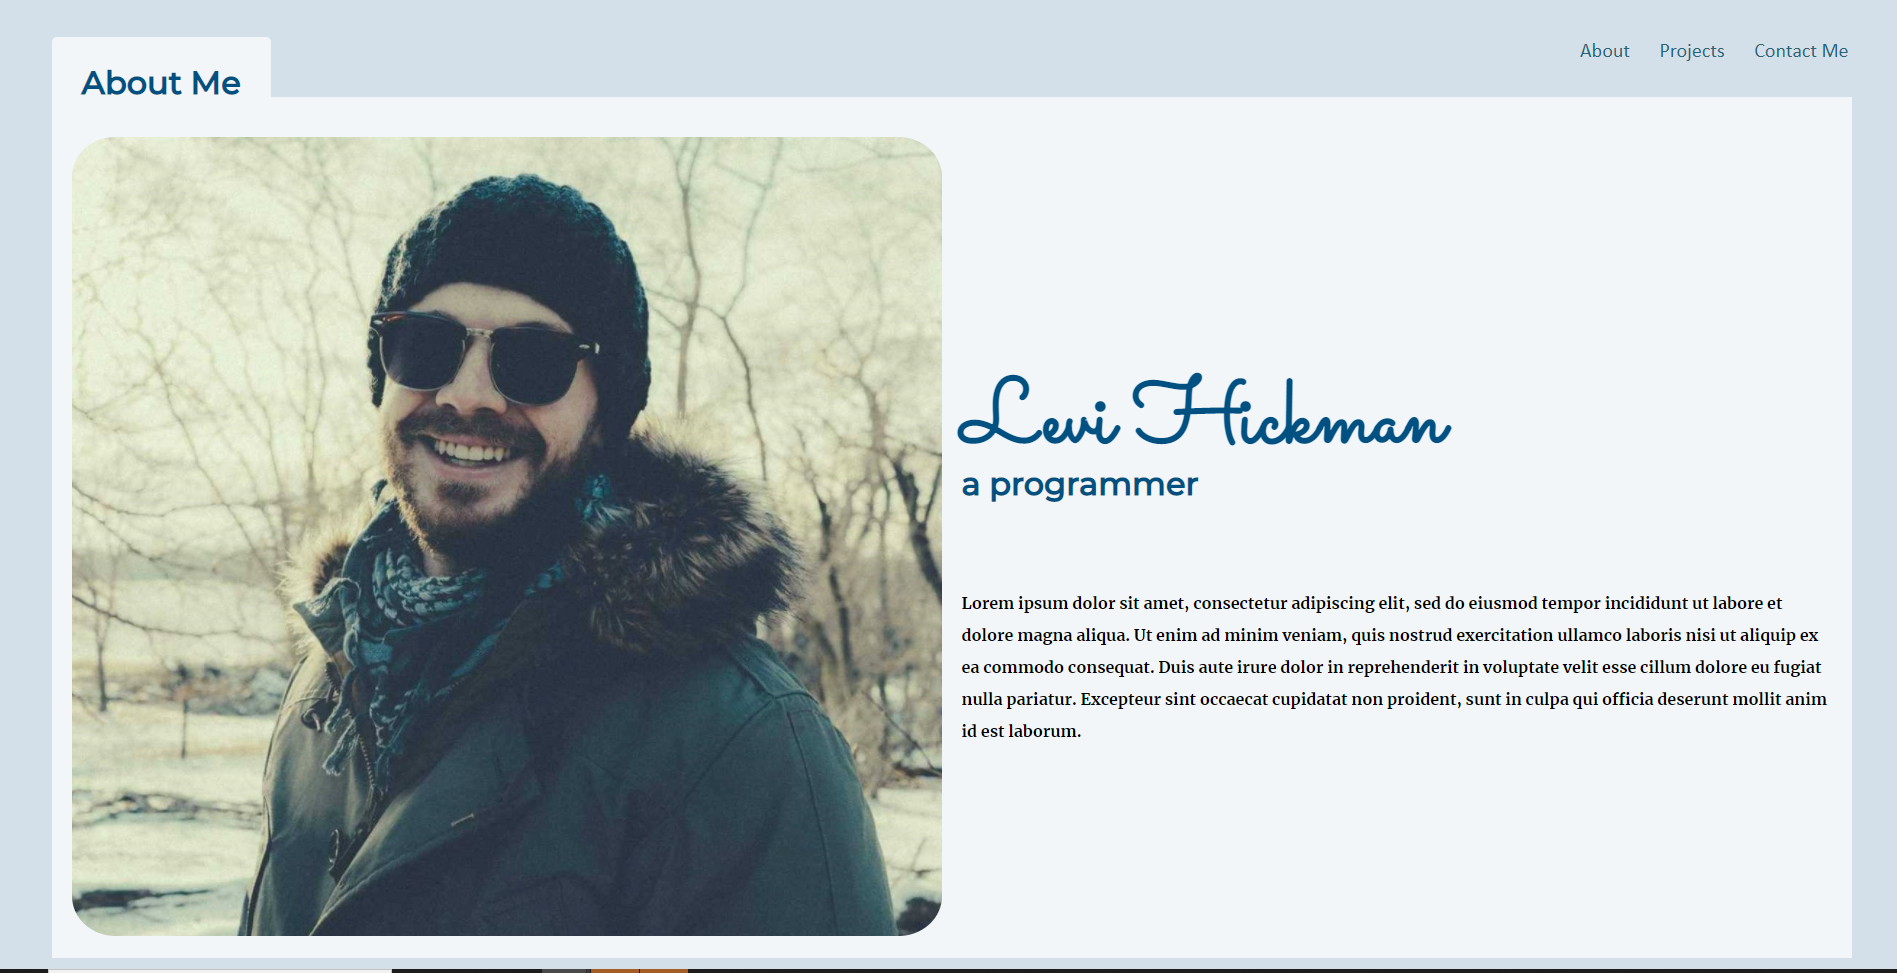
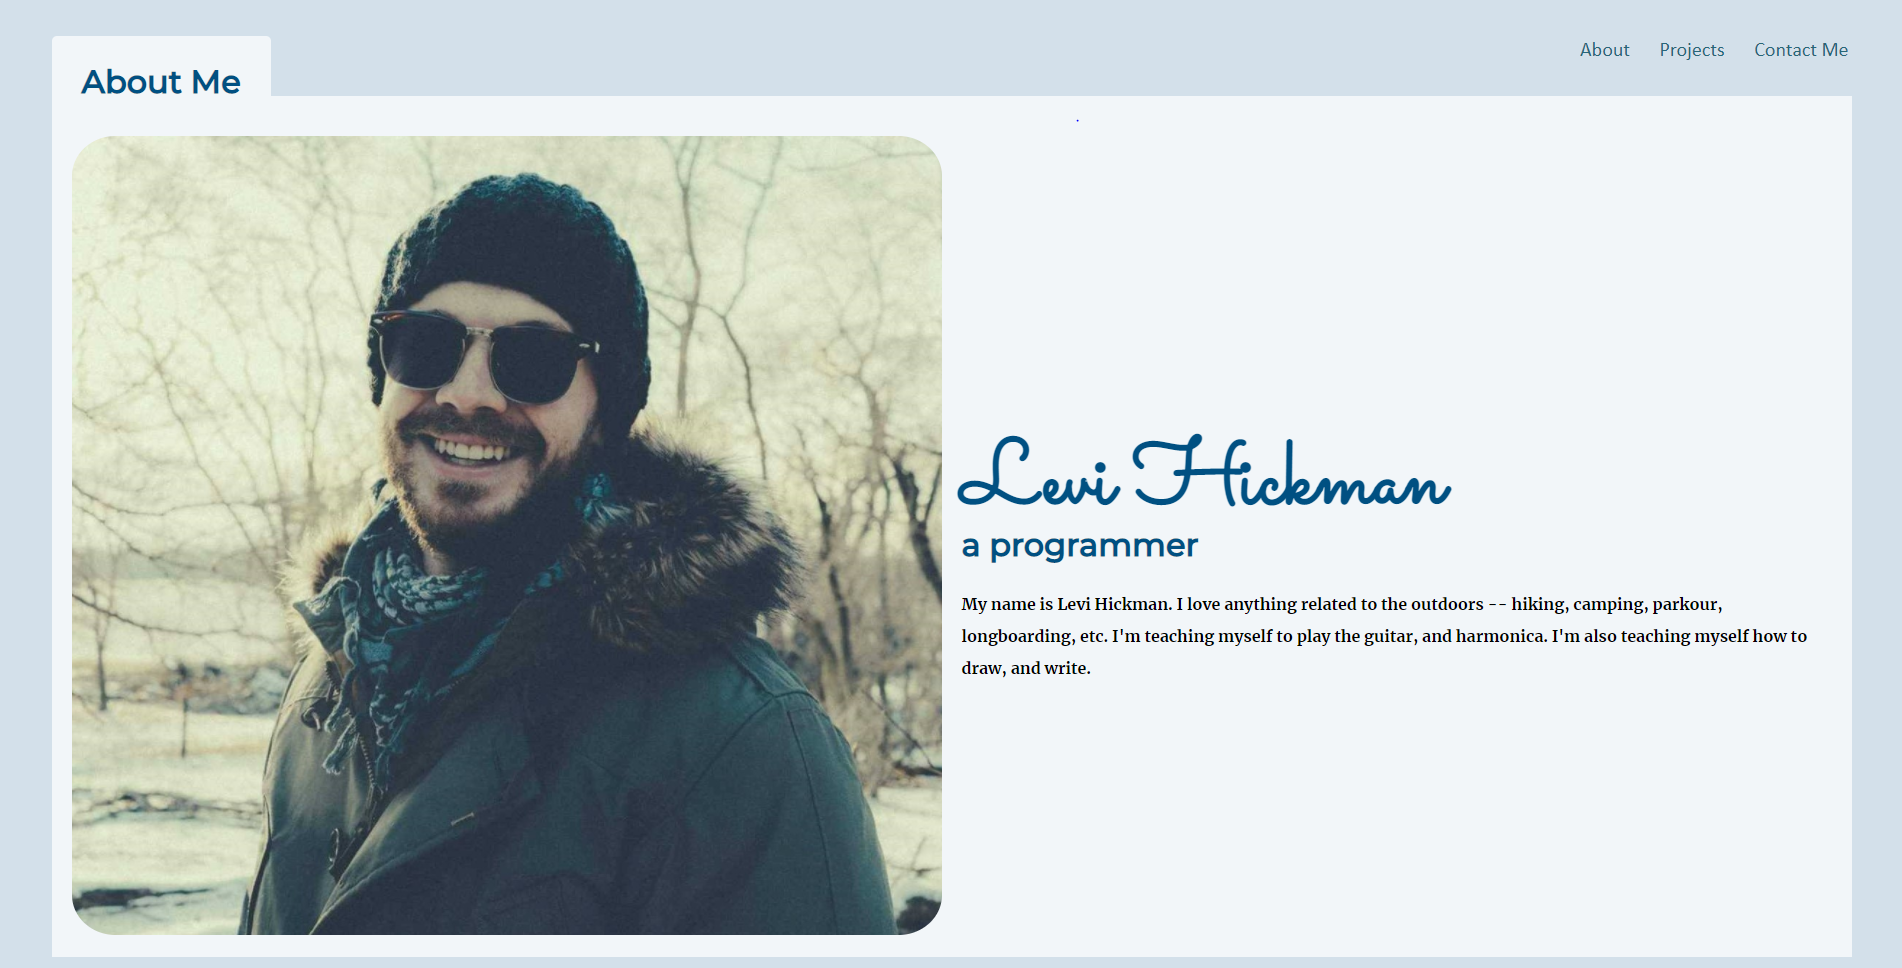
Uploaded new photos for project placeholders. Updated HTML/CSS.

diff --git a/index.html b/index.html
@@ -44,11 +44,9 @@
                 <div class="top-text">
                     <h1>Levi Hickman</h1>
                     <h2>a programmer</h2>
-                    <p>Lorem ipsum dolor sit amet, consectetur adipiscing elit, sed do eiusmod tempor incididunt ut
-                        labore et dolore magna aliqua. Ut enim ad minim veniam, quis nostrud exercitation ullamco
-                        laboris nisi ut aliquip ex ea commodo consequat. Duis aute irure dolor in reprehenderit in
-                        voluptate velit esse cillum dolore eu fugiat nulla pariatur. Excepteur sint occaecat cupidatat
-                        non proident, sunt in culpa qui officia deserunt mollit anim id est laborum.</p>
+                    <p>My name is Levi Hickman. I love anything related to the outdoors -- hiking, camping, parkour, longboarding, etc.
+                        I'm teaching myself to play the guitar, and harmonica. I'm also teaching myself how to draw, and write.
+                    </p>
                 </div>
             </div>
         </section>
@@ -68,16 +66,16 @@
             </div>
             <div class="card">
                 <header>AI That Does Your Homework</header>
-                <a href="assets/images/image_3.jpg"><img src="assets/images/image_3.jpg"
+                <a href="assets/images/image_3.jpg"><img src="assets/images/image_3.png"
                         alt="AI That Does Your Homework"></a>
             </div>
             <div class="card">
                 <header>Hear a Joke</header>
-                <a href="assets/images/image_4.jpg"><img src="assets/images/image_4.jpg" alt="Hear a Joke"></a>
+                <a href="assets/images/image_4.jpg"><img src="assets/images/image_4.png" alt="Hear a Joke"></a>
             </div>
             <div class="card">
                 <header>Reverse Time Machine</header>
-                <a href="assets/images/image_5.jpg"><img src="assets/images/image_5.jpg" alt="Reverse Time Machine"></a>
+                <a href="assets/images/image_5.jpg"><img src="assets/images/image_5.png" alt="Reverse Time Machine"></a>
             </div>
         </section>
 

diff --git a/assets/css/style.css b/assets/css/style.css
@@ -138,7 +138,7 @@ header nav ul li {
 
 .top-container p {
   line-height: 2;
-  margin-top: 10%;
+  margin-top: 3%;
 }
 
 /* Middle Container */
